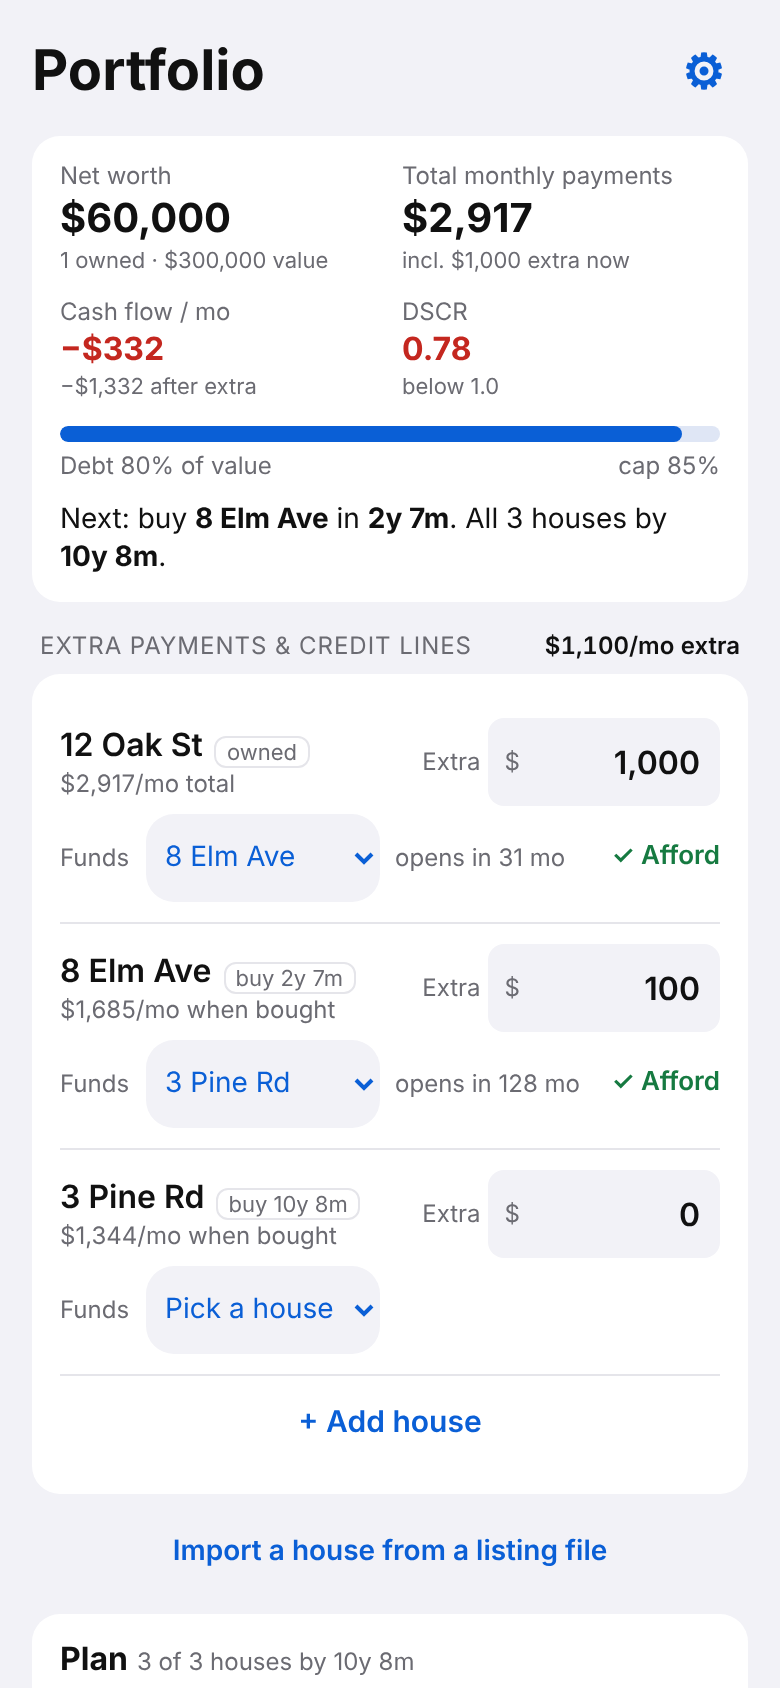
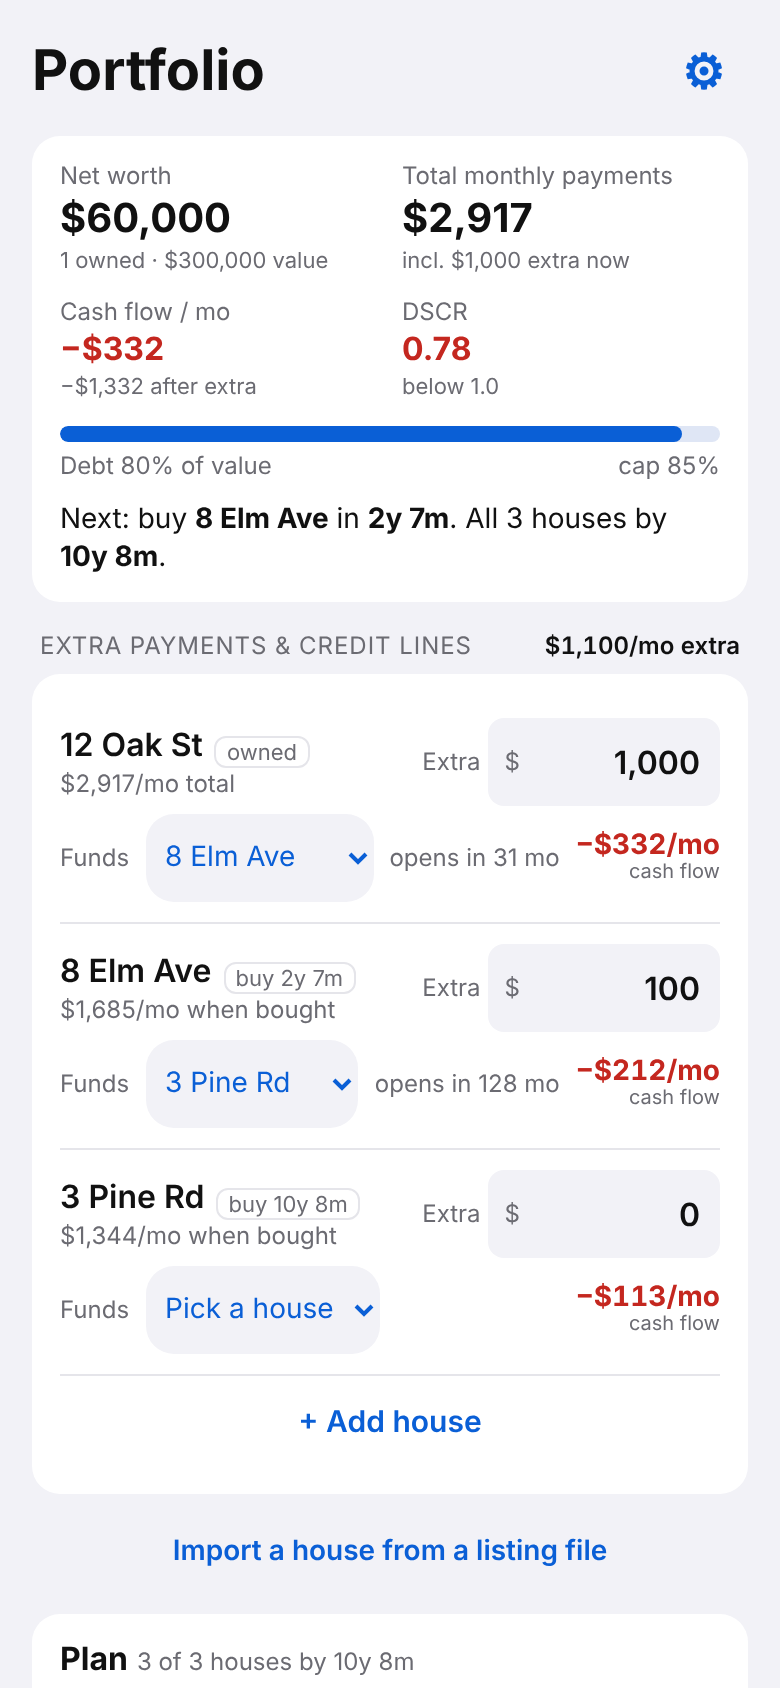
Main page: show per-house monthly cash flow instead of affordability text
Claude-Session: https://claude.ai/code/session_01T1SyQgdTcpALEohR2VebD5

diff --git a/prototype/v4/artifact.html b/prototype/v4/artifact.html
@@ -100,6 +100,8 @@ select[data-sel]{max-width:118px;font-size:14px;padding:0 6px;border-radius:14px
 .r2{flex-wrap:nowrap}.locline{font-size:12px;white-space:nowrap}.r2 .st{font-size:13px}
 @media(max-width:360px){.r2{flex-wrap:wrap}}
 
+.cfl{margin-left:auto;text-align:right;line-height:1.15;white-space:nowrap}.cfl b{display:block;font-size:14px;font-variant-numeric:tabular-nums}.cfl small{font-size:10px;color:var(--mut)}
+
 </style>
 <main id="app" aria-live="polite"></main>
 <script>
@@ -342,7 +344,7 @@ select[data-sel]{max-width:118px;font-size:14px;padding:0 6px;border-radius:14px
       const hi = v.X > 2000 && v.X > 3 * v.P ? '<span class="hi">unusually high extra</span>' : '';
       return `<div class="row" data-go="h/${h.id}" data-testid="ledger-row"><div class="r1"><span><span class="addr">${esc(h.addr)}</span><span class="tag">${tag}</span><div class="pay" data-testid="row-payment" data-k="pay-${h.id}">${$f(v.payment)}/mo ${h.status === 'planned' ? 'when bought' : 'total'} ${hi}</div></span>
         <span class="ex ${h.driver === 'months' ? 'calc' : ''}">Extra<span class="iw"><em>$</em><input inputmode="decimal" data-testid="extra-input" data-p="h.${h.id}.extra" data-k="x-${h.id}" aria-label="Extra monthly payment for ${esc(h.addr)}" value="${grp(v.X)}"></span></span></div>
-        <div class="r2"><span class="fund">Funds</span>${targetSel(h)}<span class="locline" data-testid="loc-line">${loc}</span><span class="st ${a.cls}" data-testid="afford-status" title="${esc(a.why || '')}">${a.cls === 'na' ? '' : a.txt}</span></div></div>`; }).join('');
+        <div class="r2"><span class="fund">Funds</span>${targetSel(h)}<span class="locline" data-testid="loc-line">${loc}</span><span class="cfl ${v.cf < 0 ? 'bad' : 'ok'}" data-testid="row-cashflow" title="Rent minus expenses and the loan payment, before extra payments"><b data-k="cf-${h.id}">${$s(v.cf)}/mo</b><small>cash flow</small></span></div></div>`; }).join('');
     const cmp = (label, a, b, f, cls) => `<tr><td>${label}</td><td data-k="c-${label}-a">${f(a)}</td><td class="${cls || ''}" data-k="c-${label}-b"><b>${f(b)}</b></td></tr>`;
     const warn = pl.unfunded.length ? `<div class="warnbox">⚠ ${pl.unfunded.length} planned house${pl.unfunded.length > 1 ? 's are' : ' is'} never funded under the current numbers.</div>` : '';
     const health = pl.worst.dti > g.dti ? `<div class="warnbox">⚠ Debt-to-income peaks at ${r(pl.worst.dti)}% in ${mo(pl.worst.month)} (limit ${g.dti}%).</div>` : '';

diff --git a/prototype/v4/app.js b/prototype/v4/app.js
@@ -71,7 +71,7 @@
       const hi = v.X > 2000 && v.X > 3 * v.P ? '<span class="hi">unusually high extra</span>' : '';
       return `<div class="row" data-go="h/${h.id}" data-testid="ledger-row"><div class="r1"><span><span class="addr">${esc(h.addr)}</span><span class="tag">${tag}</span><div class="pay" data-testid="row-payment" data-k="pay-${h.id}">${$f(v.payment)}/mo ${h.status === 'planned' ? 'when bought' : 'total'} ${hi}</div></span>
         <span class="ex ${h.driver === 'months' ? 'calc' : ''}">Extra<span class="iw"><em>$</em><input inputmode="decimal" data-testid="extra-input" data-p="h.${h.id}.extra" data-k="x-${h.id}" aria-label="Extra monthly payment for ${esc(h.addr)}" value="${grp(v.X)}"></span></span></div>
-        <div class="r2"><span class="fund">Funds</span>${targetSel(h)}<span class="locline" data-testid="loc-line">${loc}</span><span class="st ${a.cls}" data-testid="afford-status" title="${esc(a.why || '')}">${a.cls === 'na' ? '' : a.txt}</span></div></div>`; }).join('');
+        <div class="r2"><span class="fund">Funds</span>${targetSel(h)}<span class="locline" data-testid="loc-line">${loc}</span><span class="cfl ${v.cf < 0 ? 'bad' : 'ok'}" data-testid="row-cashflow" title="Rent minus expenses and the loan payment, before extra payments"><b data-k="cf-${h.id}">${$s(v.cf)}/mo</b><small>cash flow</small></span></div></div>`; }).join('');
     const cmp = (label, a, b, f, cls) => `<tr><td>${label}</td><td data-k="c-${label}-a">${f(a)}</td><td class="${cls || ''}" data-k="c-${label}-b"><b>${f(b)}</b></td></tr>`;
     const warn = pl.unfunded.length ? `<div class="warnbox">⚠ ${pl.unfunded.length} planned house${pl.unfunded.length > 1 ? 's are' : ' is'} never funded under the current numbers.</div>` : '';
     const health = pl.worst.dti > g.dti ? `<div class="warnbox">⚠ Debt-to-income peaks at ${r(pl.worst.dti)}% in ${mo(pl.worst.month)} (limit ${g.dti}%).</div>` : '';

diff --git a/prototype/v4/style.css b/prototype/v4/style.css
@@ -96,3 +96,5 @@ select[data-sel]{background:var(--field);border-radius:16px;padding:0 10px;max-w
 select[data-sel]{max-width:118px;font-size:14px;padding:0 6px;border-radius:14px}
 .r2{flex-wrap:nowrap}.locline{font-size:12px;white-space:nowrap}.r2 .st{font-size:13px}
 @media(max-width:360px){.r2{flex-wrap:wrap}}
+
+.cfl{margin-left:auto;text-align:right;line-height:1.15;white-space:nowrap}.cfl b{display:block;font-size:14px;font-variant-numeric:tabular-nums}.cfl small{font-size:10px;color:var(--mut)}

diff --git a/prototype/v4/build-artifact.py b/prototype/v4/build-artifact.py
@@ -1,0 +1,17 @@
+import re
+c=open("style.css").read(); eng=open("engine.js").read()
+app=re.sub(r"/\*SW\*/.*?/\*ENDSW\*/","",open("app.js").read(),flags=re.S)
+assert "</script" not in eng+app
+open("artifact.html","w").write(f"""<title>Real Estate Portfolio</title>
+<meta name="claude:viewport-fit-sides" content="cover">
+<style>
+{c}
+</style>
+<main id="app" aria-live="polite"></main>
+<script>
+{eng}
+</script>
+<script>
+{app}
+</script>
+""")
